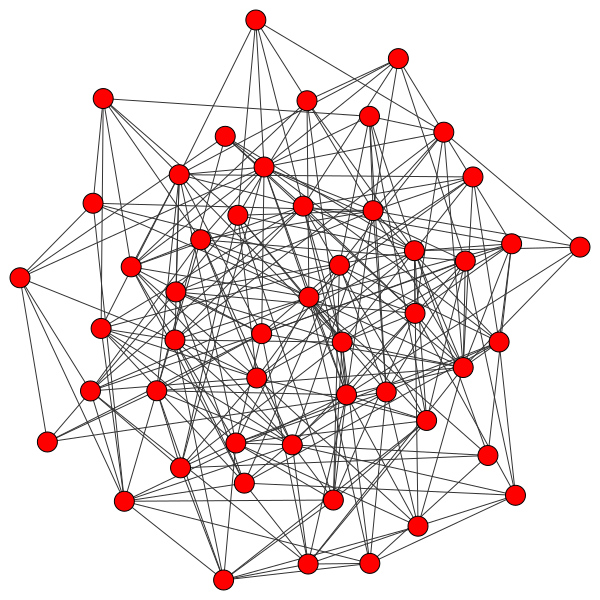
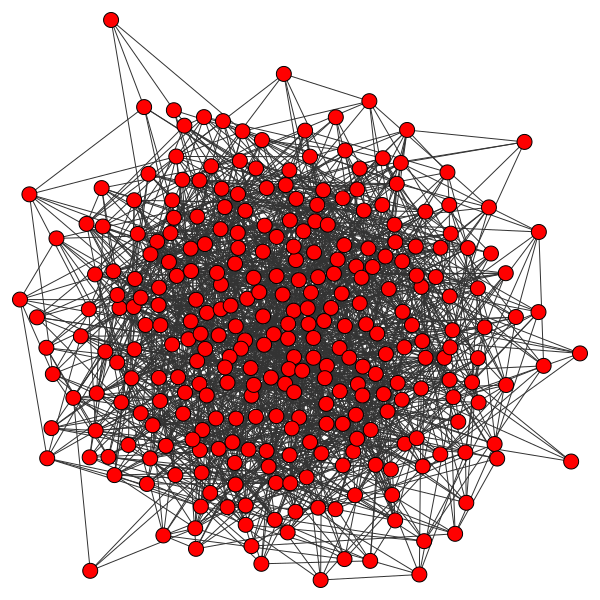
Latest changes
Includes modularity and no of clusters

diff --git a/Erdos-Renyi/communityDetectionOnErdosRenyiGraph.py b/Erdos-Renyi/communityDetectionOnErdosRenyiGraph.py
@@ -1,23 +1,50 @@
 import igraph
 
 
-graph = igraph.Graph.Erdos_Renyi(50, 0.2)
+graph = igraph.Graph.Erdos_Renyi(300, 0.04)
+#graph.vs["label"] = range(500)
+
+visual_style = {}
+visual_style["edge_curved"] = False
+visual_style["vertex_color"] = "#95D2CB"
+visual_style["vertex_size"] = 15
+visual_style["vertex_label_size"] = 12
 
 #igraph.summary(graph)
-igraph.plot(graph,"erdosRenyi.png")
+igraph.plot(graph,"erdosRenyiNetwork.png", **visual_style)
+
+visual_style1 = {}
+visual_style1["edge_curved"] = False
+visual_style1["vertex_size"] = 15
+visual_style1["vertex_label_size"] = 12
 
 #print(communities)
 louvainCommunity = graph.community_multilevel()
-igraph.plot(louvainCommunity, "LouvainOnErdosRenyi.png")
+#print louvainCommunity
+print "No of community = {}".format(louvainCommunity.cluster_graph().vcount())
+print "Modularity of communities detected by Louvain Algorithm on the Erdos-Renyi graph =  {}".format(louvainCommunity.modularity)
+igraph.plot(louvainCommunity, "LouvainOnErdosRenyi.png", **visual_style1)
 
-girvanNewmanCommunity = graph.community_edge_betweenness()
-igraph.plot(girvanNewmanCommunity.as_clustering(), "GirvanNewmanOnErdosRenyi.png")
+girvanNewmanCommunity = graph.community_edge_betweenness().as_clustering()
+#print girvanNewmanCommunity
+print "No of community = {}".format(girvanNewmanCommunity.cluster_graph().vcount())
+print "Modularity of communities detected by Girvan-Newman Algorithm on the Erdos-Renyi graph =  {}".format(girvanNewmanCommunity.modularity)
+igraph.plot(girvanNewmanCommunity, "GirvanNewmanOnErdosRenyi.png", **visual_style1)
 
 labelPropagationCommunity = graph.community_label_propagation()
-igraph.plot(labelPropagationCommunity, "LabelPropagationOnErdosRenyi.png")
+#print labelPropagationCommunity
+print "No of community = {}".format(labelPropagationCommunity.cluster_graph().vcount())
+print "Modularity of communities detected by Label Propagation Algorithm on the Erdos-Renyi graph =  {}".format(labelPropagationCommunity.modularity)
+igraph.plot(labelPropagationCommunity, "LabelPropagationOnErdosRenyi.png", **visual_style1)
 
-fastGreedyCommunity = graph.community_fastgreedy()
-igraph.plot(fastGreedyCommunity.as_clustering(), "FastGreedyOnErdosRenyi.png")
+fastGreedyCommunity = graph.community_fastgreedy().as_clustering()
+#print fastGreedyCommunity
+print "No of community = {}".format(fastGreedyCommunity.cluster_graph().vcount())
+print "Modularity of communities detected by Fast-greedy Algorithm on the Erdos-Renyi graph =  {}".format(fastGreedyCommunity.modularity)
+igraph.plot(fastGreedyCommunity, "FastGreedyOnErdosRenyi.png", **visual_style1)
 
-randomWalkCommunity = graph.community_walktrap()
-igraph.plot(randomWalkCommunity.as_clustering(), "RandomWalkOnErdosRenyi.png")
+randomWalkCommunity = graph.community_walktrap().as_clustering()
+#print randomWalkCommunity
+print "No of community = {}".format(randomWalkCommunity.cluster_graph().vcount())
+print "Modularity of communities detected by Random walk Algorithm on the Erdos-Renyi graph =  {}".format(randomWalkCommunity.modularity)
+igraph.plot(randomWalkCommunity, "RandomWalkOnErdosRenyi.png", **visual_style1)
